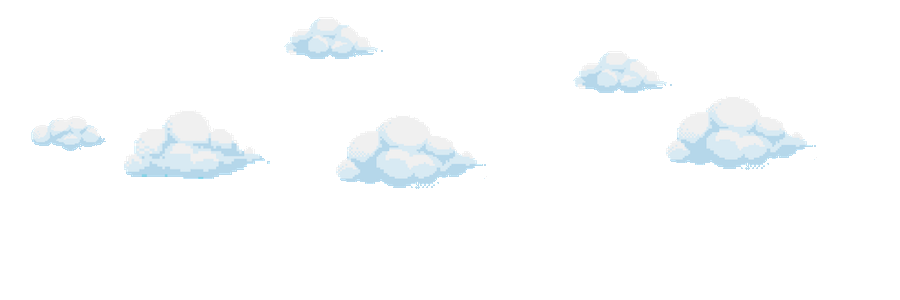
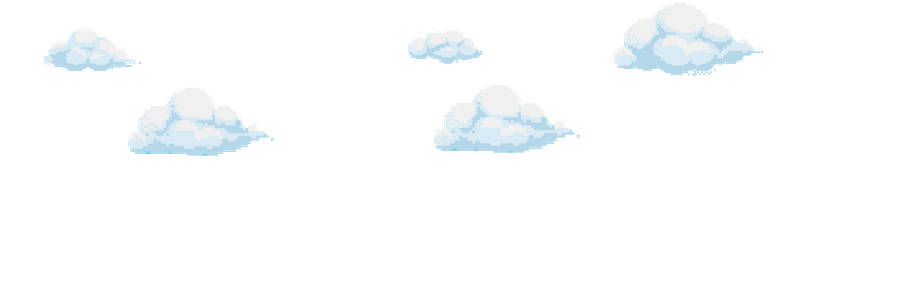
background class

diff --git a/lib/session.js b/lib/session.js
@@ -1,5 +1,6 @@
 const Cactus = require('./cactus')
 const Dino = require('./dino')
+const Bkg = require('./background')
 let dinoSprite = new Image();
 dinoSprite.src = './images/runDino1.png'
 let dinoSprite1 = new Image();
@@ -14,6 +15,11 @@ let cactus3 = new Image();
 cactus3.src = './images/cactus3.png'
 let cactus4 = new Image();
 cactus4.src = './images/cactus4.png'
+let bkg1 = new Image();
+bkg1.src = './images/cloudCanvas1.png'
+let bkg2 = new Image();
+bkg2.src = './images/cloudCanvas2.png'
+
 var tickCount = 0;
 
 class Session {

diff --git a/lib/background.js b/lib/background.js
@@ -1,0 +1,19 @@
+class Background {
+  constructor(options) {
+    var options = options || {};
+    this.image = options.image
+    this.x = options.x;
+    this.y = options.y;
+    this.width = 0;
+    this.height = 0;
+    this.speed = 0;
+  };
+
+  draw(context) {
+    return this;
+  }
+
+
+}
+
+module.exports = Background;
